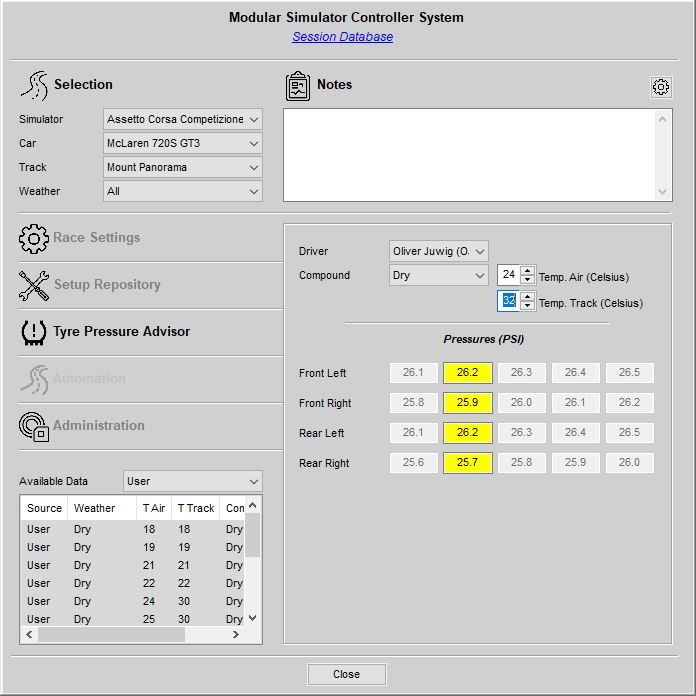
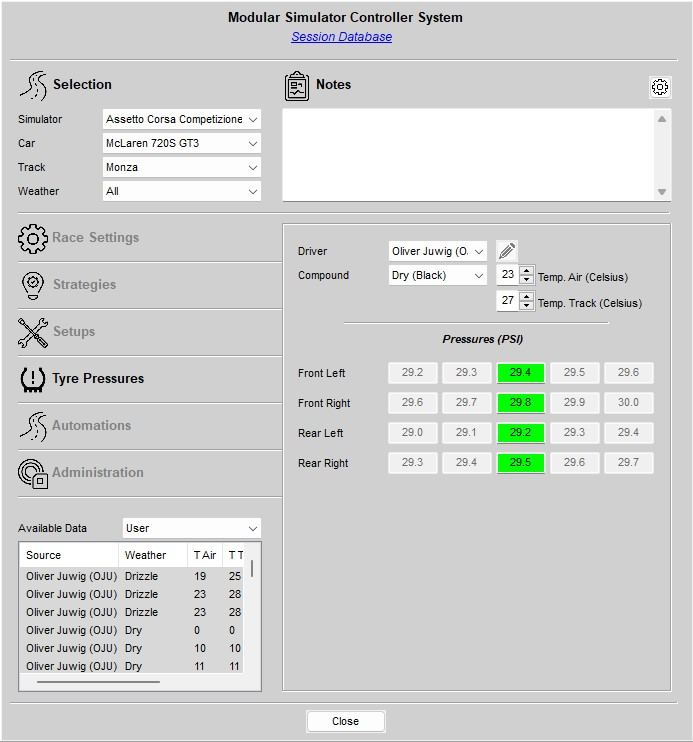
Documentation Update

Changed region(s): [[0.0, 0.0, 1.0, 1.0], [0.4242, 0.4828, 0.5152, 0.6336], [0.4242, 0.6638, 0.5152, 0.694]]

diff --git a/Docs/Virtual Race Engineer.md b/Docs/Virtual Race Engineer.md
@@ -605,6 +605,16 @@ Notes:
 
   3. You can configure using the [settings in the "Session Database"](https://github.com/SeriousOldMan/Simulator-Controller/wiki/Virtual-Race-Engineer#race-settings-1) the session types, from which tyre pressure data will be collected and stored into the database by Jona. Default is to collect tyre pressure data during practice and race sessions.
 
+##### Browsing and Editing Tyre Pressures
+
+A tool is available to investigate the tyre pressure data collected by the Race Engineer. Using this tool you can also correct invalid data points, if wrong pressures might have been mistakingly recorded. To open this tool, you must select a specific weather condition (i.e. not "All") and you must choose yourself as the current driver. Then you can click on the small button with the "Pencil" beside the driver name and the following window opens:
+
+![](https://github.com/SeriousOldMan/Simulator-Controller/blob/main/Docs/Images/Session%20Database%2016.jpg)
+
+Here you can select one of the tyre compounds, you have used in that specific weather condition, and the temperatures (air / track) for which pressure data is available. In the list in the lower part of the window you will see all recorded data points. Select one of the entries, and you can increase or decrease the count and thereby the weight of this data point, or you can delete it alltogether. The graph in the upper area shows you the data distribution. The narrower the box, the more accurate the cold tyre pressure recommendation.
+
+Please note, that **all** changes will only be saved, if you close the tool using the "Save" button.
+
 #### Automations
 
 At this page, you can define automatic actions for specific locations at the track. Since this is a very extensive functionality and observing your car and its position on the track is the duty of the Race Spotter, there is a [dedicated chapter](https://github.com/SeriousOldMan/Simulator-Controller/wiki/Virtual-Race-Spotter#track-automations) in the documentation of the Virtual Race Spotter, which shows how to setup and use track automations.

diff --git a/Docs/Releases.md b/Docs/Releases.md
@@ -1,3 +1,10 @@
+## 4.6.1.0-release 02/22/23 (planned)
+  1. Minor bugfixes, as always
+  2. Documentation updates, as always
+  3. Changed default for pressure calculation in "Race Center" to "Adjust (Reference)".
+  4. Changed default for repairs to *Everything* in "Race Center".
+  5. A new tool has been added to the "Session Database", which let's you investigate and correct (if necessary) recorded cold tyre pressures recommendations. See the [all new documentation](*) for more information.
+
 ## 4.6.0.0-release 02/17/23
   1. Minor bugfixes, as always
   2. Documentation updates, as always
